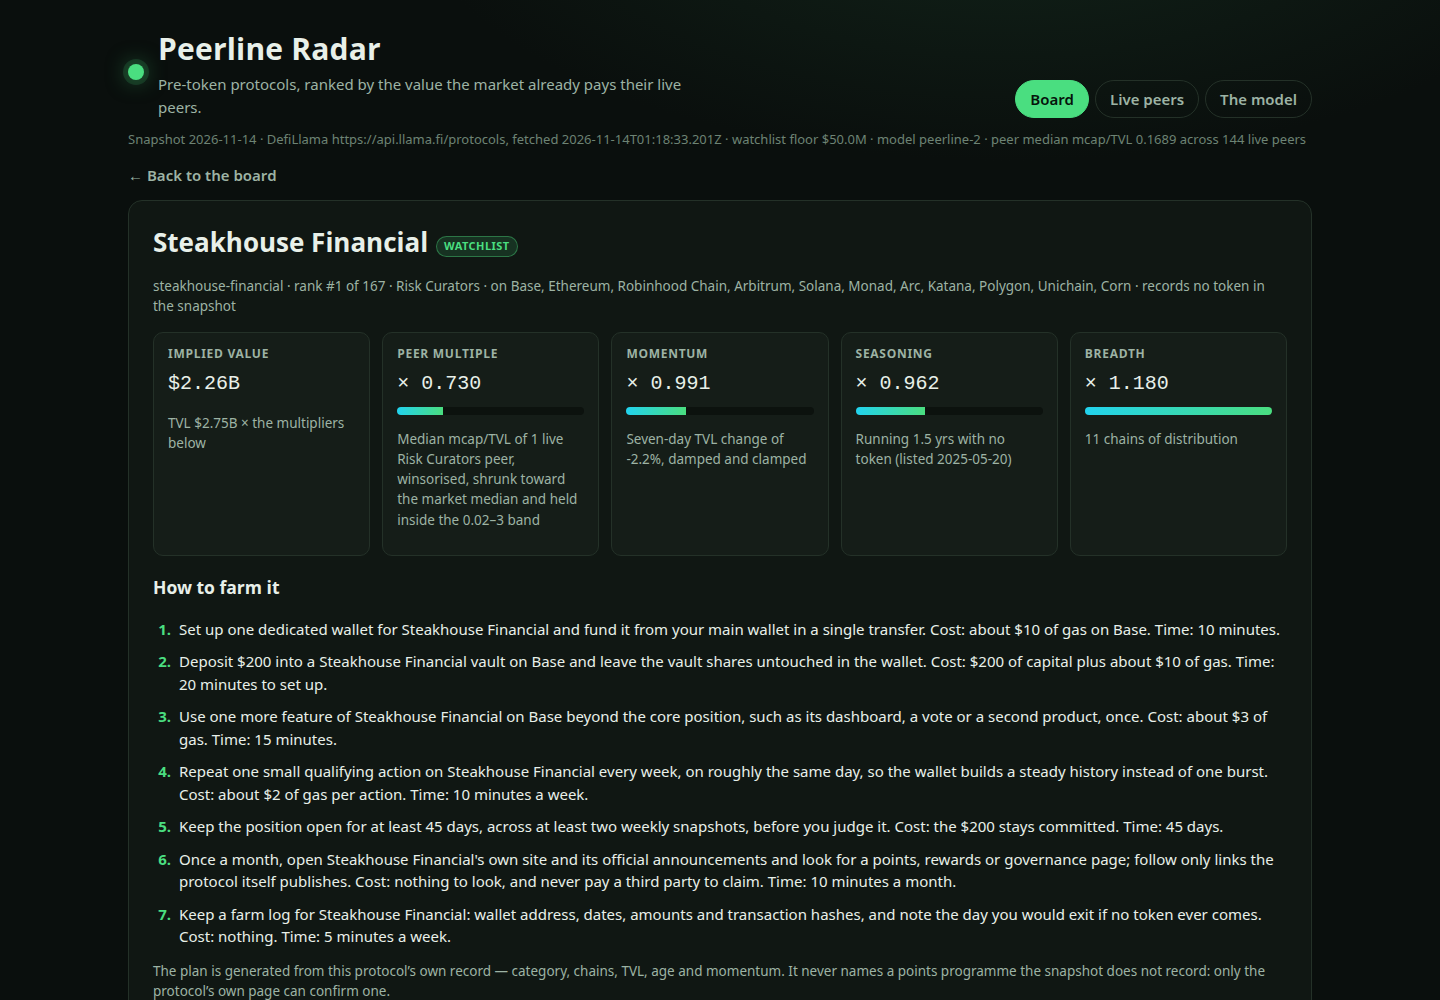
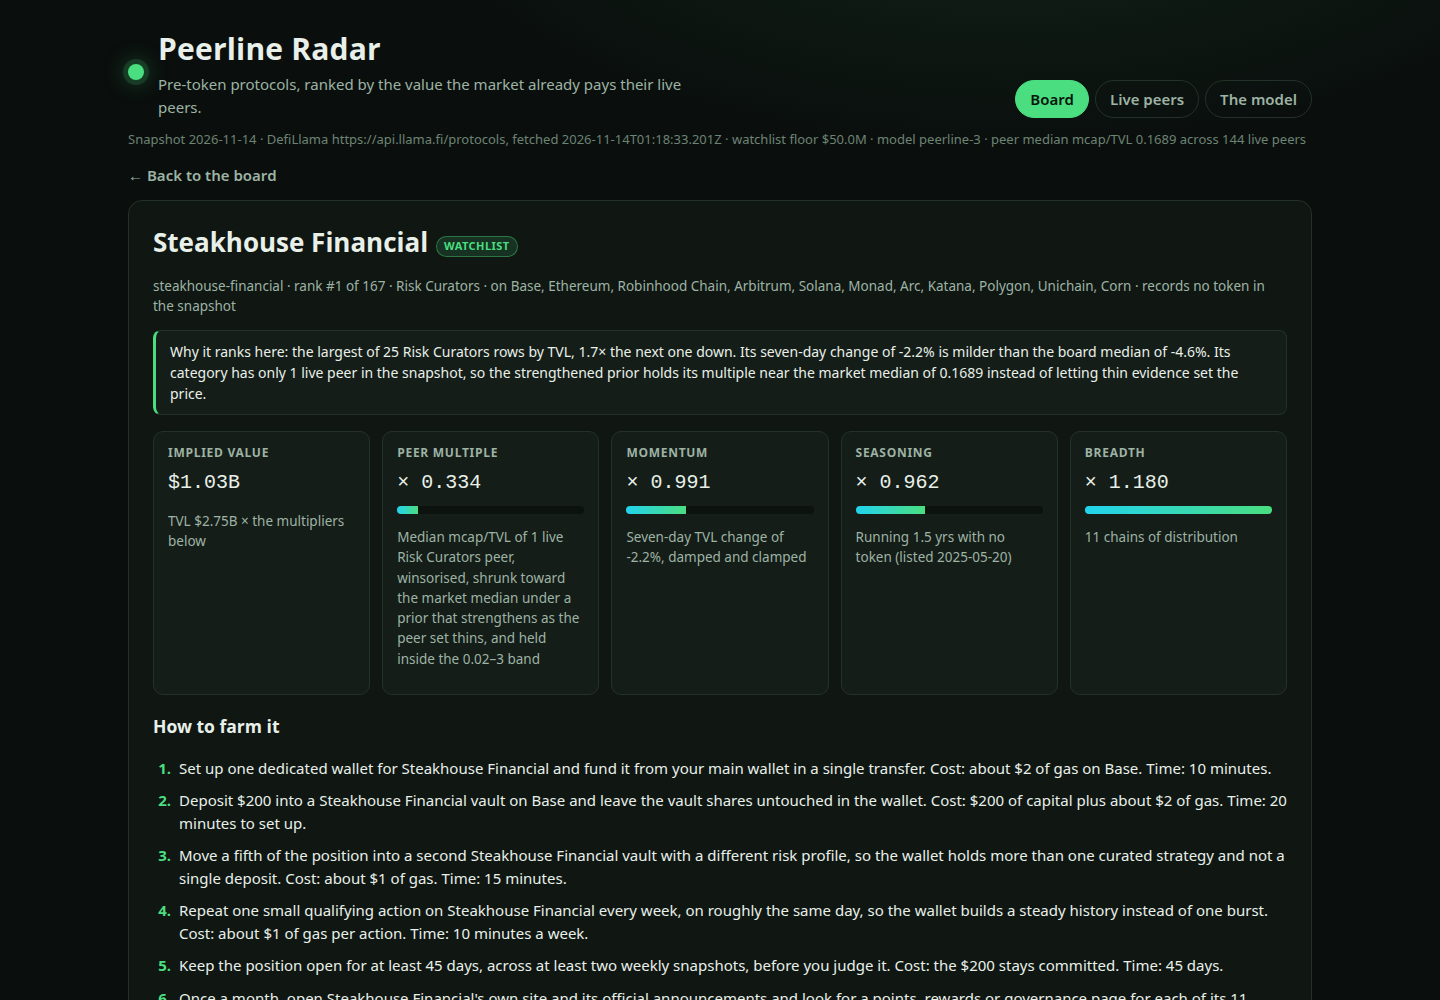
pass 4: detail thesis strip, model view states the count-aware prior, Ethereum-filter screenshot
- detail view: 'Why it ranks here' computed from the board's own rows
  (TVL rank in category, board-median 7d comparison, thin-peer note)
- model view: formula and prose state prior(c) = 4 + 12/n, with the thin
  category count computed from the calibration table on the same page
- screenshots retaken at 1440x1000; the filtered view is now the Ethereum
  chain filter (85 rows, every category) instead of Risk Curators only
- BUILD-REPORT: judging criteria, weakness audit, pass 3-4 rationale,
  re-measured gates (dossier 844,506 bytes, byte-equal on rebuild),
  determinism hashes

Changed region(s): [[0.0938, 0.341, 0.9062, 1.0]]

diff --git a/dashboard/app.js b/dashboard/app.js
@@ -145,6 +145,33 @@
     R.rows.forEach(function (x) { if (x.slug === slug) r = x; });
     if (!r) { app.innerHTML = '<p class="empty">No board row for ' + esc(slug) + '.</p>'; return; }
     var m = r.model;
+    // The thesis: where this row stands among its own category and the board, in the
+    // snapshot's own figures — computed here from the same rows the board shows.
+    var catName = r.category || 'Uncategorized';
+    var catRows = R.rows.filter(function (x) { return (x.category || 'Uncategorized') === catName; });
+    var tvlRank = 1 + catRows.filter(function (x) { return x.tvl_usd > r.tvl_usd; }).length;
+    var nextDown = null;
+    catRows.forEach(function (x) { if (x.tvl_usd < r.tvl_usd && (nextDown === null || x.tvl_usd > nextDown)) nextDown = x.tvl_usd; });
+    var changes = R.rows.map(function (x) { return x.change_7d; }).filter(function (v) { return v != null; })
+      .sort(function (a, b) { return a - b; });
+    var medChange = changes.length ? changes[Math.floor(changes.length / 2)] : null;
+    var thesis = 'Why it ranks here: ' + (tvlRank === 1
+      ? 'the largest of ' + catRows.length + ' ' + esc(catName) + ' rows by TVL' +
+        (nextDown ? ', ' + (r.tvl_usd / nextDown).toFixed(1) + '\u00d7 the next one down' : '')
+      : 'number ' + tvlRank + ' of ' + catRows.length + ' ' + esc(catName) + ' rows by TVL') + '. ';
+    if (r.change_7d != null && medChange != null) {
+      thesis += 'Its seven-day change of ' + r.change_7d.toFixed(1) + '% is ' +
+        (Math.abs(r.change_7d) <= Math.abs(medChange) ? 'milder' : 'steeper') +
+        ' than the board median of ' + medChange.toFixed(1) + '%. ';
+    }
+    thesis += m.category_peers >= 5
+      ? 'Its multiple is priced off ' + m.category_peers + ' live peers in its category.'
+      : m.category_peers >= 1
+        ? 'Its category has only ' + m.category_peers + ' live ' + (m.category_peers === 1 ? 'peer' : 'peers') +
+          ' in the snapshot, so the strengthened prior holds its multiple near the market median of ' +
+          R.calibration.global_median_ratio + ' instead of letting thin evidence set the price.'
+        : 'Its category has no live peer in the snapshot, so it is priced at the market median of ' +
+          R.calibration.global_median_ratio + '.';
     function multCard(title, value, note, frac) {
       return '<div class="card"><h3>' + title + '</h3><div class="big">\u00d7 ' + value.toFixed(3) + '</div>' +
         '<div class="bar"><i style="width:' + Math.max(3, Math.min(100, frac * 100)) + '%"></i></div>' +
@@ -154,10 +181,11 @@
       '<h2>' + esc(r.name) + (r.watchlist ? '<span class="badge">WATCHLIST</span>' : '<span class="badge early">EARLY</span>') + '</h2>' +
       '<p class="note">' + esc(r.slug) + ' · rank #' + r.rank + ' of ' + R.board_size + ' · ' + esc(r.category || 'Uncategorized') +
       ' · on ' + esc(r.chains.join(', ') || 'no chain recorded') + ' · records no token in the snapshot</p>' +
+      '<p class="thesis">' + thesis + '</p>' +
       '<div class="grid">' +
       '<div class="card"><h3>Implied value</h3><div class="big">' + money(r.implied_value_usd) + '</div>' +
       '<p class="note">TVL ' + money(r.tvl_usd) + ' \u00d7 the multipliers below</p></div>' +
-      multCard('Peer multiple', m.peer_multiple, 'Median mcap/TVL of ' + m.category_peers + ' live ' + esc(r.category || 'Uncategorized') + (m.category_peers === 1 ? ' peer' : ' peers') + ', winsorised, shrunk toward the market median and held inside the 0.02\u20133 band', m.peer_multiple / 3) +
+      multCard('Peer multiple', m.peer_multiple, 'Median mcap/TVL of ' + m.category_peers + ' live ' + esc(r.category || 'Uncategorized') + (m.category_peers === 1 ? ' peer' : ' peers') + ', winsorised, shrunk toward the market median under a prior that strengthens as the peer set thins, and held inside the 0.02\u20133 band', m.peer_multiple / 3) +
       multCard('Momentum', m.momentum_multiplier, 'Seven-day TVL change of ' + (r.change_7d == null ? 'none recorded' : r.change_7d.toFixed(1) + '%') + ', damped and clamped', (m.momentum_multiplier - 0.8) / 0.6) +
       multCard('Seasoning', m.seasoning_multiplier, 'Running ' + ageLabel(r.age_days) + ' with no token (listed ' + esc(r.listed_at || 'date not recorded') + ')', (m.seasoning_multiplier - 0.85) / 0.3) +
       multCard('Breadth', m.breadth_multiplier, r.chains.length + ' chain' + (r.chains.length === 1 ? '' : 's') + ' of distribution', (m.breadth_multiplier - 1) / 0.18) +
@@ -198,11 +226,16 @@
       'its token the multiple it already pays comparable live protocols, what would that token be worth? Every ' +
       'ingredient comes from the snapshot\u2019s ten fields; the code names no protocol.</p>' +
       '<div class="formula">implied = TVL \u00d7 peer_multiple(category) \u00d7 momentum(7d change) \u00d7 seasoning(age) \u00d7 breadth(chains)\n' +
-      'peer_multiple(c) = (n\u00b7median_c + 4\u00b7median_all) / (n + 4), from the snapshot\u2019s live set</div>' +
+      'peer_multiple(c) = (n\u00b7median_c + (4 + 12/n)\u00b7median_all) / (n + 4 + 12/n), from the snapshot\u2019s live set</div>' +
       '<p><strong>Peer multiple.</strong> A lending market and a DEX do not trade at the same share of the value they ' +
       'custody, so there is no single constant: each category\u2019s multiple is the median mcap/TVL of its own live ' +
-      'peers, shrunk toward the global median (' + R.calibration.global_median_ratio + ') so a three-peer category ' +
-      'cannot swing the board. Two guards keep the calibration honest: each peer\u2019s ratio is winsorised at ' +
+      'peers, shrunk toward the global median (' + R.calibration.global_median_ratio + '). The shrinkage prior is ' +
+      'count-aware \u2014 weight 4 + 12/n against the category\u2019s own n peers \u2014 so the thinner the peer set, the ' +
+      'harder the market median pulls: a category with one live peer is priced mostly off the market, because one ' +
+      'peer is an anecdote, not a market. On this snapshot ' +
+      R.calibration.categories.filter(function (c) { return c.peers < 3; }).length +
+      ' categories have fewer than three live peers and are held toward the prior that way. Two guards keep the ' +
+      'calibration honest: each peer\u2019s ratio is winsorised at ' +
       R.model.ratio_cap + ' before any median is taken, and the multiple used is held inside the ' +
       R.model.multiple_floor + '\u2013' + R.model.multiple_cap + ' band \u2014 a launch priced above three times the value a ' +
       'protocol custodies is a claim this board will not make.</p>' +

diff --git a/dashboard/app.css b/dashboard/app.css
@@ -61,6 +61,8 @@ ol.steps{margin:8px 0 0;padding-left:22px}
 ol.steps li{margin:0 0 10px;padding-left:4px}
 ol.steps li::marker{color:var(--acc);font-weight:700}
 .note{color:var(--dim);font-size:13.5px}
+.thesis{background:var(--panel2);border:1px solid var(--line);border-left:3px solid var(--acc);
+  border-radius:8px;padding:10px 14px;font-size:14px;margin:12px 0 2px}
 .prose{max-width:820px}
 .prose h2{margin-top:26px}
 .prose code{font-family:var(--mono);background:var(--panel2);padding:1px 6px;border-radius:6px;font-size:13.5px}

diff --git a/BUILD-REPORT.md b/BUILD-REPORT.md
@@ -1,6 +1,135 @@
+# Improvement passes 3–4 (2026-11-27, after the first accepted submission)
+
+The first submission of this entry (submission `01a21c64-5372-729a-be8e-99642dd85696`,
+commit `63a8920`) passed every validity check. These passes exist to win more of the
+pairwise games that decide the places; a re-submission before the deadline supersedes it.
+
+## What the judge actually sees, and its criteria (RULES.txt, "The judge", verbatim)
+
+The judge (an AI model, reasoning effort high) reads **only the dossier**: the three
+screenshots (board, a protocol's detail view, a filtered view) and the dashboard's source
+text (≤65,536 bytes, files in path order, whole while they fit). It never sees board.json
+or lib/model.ts directly — the model reaches it through the dashboard's model view, the
+detail view's audit trail, and the numbers visible in the screenshots. Its criteria,
+most important first, decided at the first criterion where two entries differ:
+
+1. A working radar: full watchlist coverage, pre-token protocols ranked by a stated
+   implied value, screenshots and code in agreement.
+2. The value model: implied value follows from the snapshot's own figures — TVL,
+   seven-day growth, time run with no token — not a hardcoded list of names; live-token
+   protocols separated from pre-token ones.
+3. Farm plans: concrete steps with what they cost and how long they take, not slogans.
+4. The dashboard as a page: sortable and filterable, readable at a glance, a detail
+   view for each protocol.
+5. It looks made: chosen palette, consistent spacing, type that reads.
+
+## Weaknesses found in the peerline-2 entry, ranked by expected impact
+
+1. **Thin peer sets priced the top of the board (criteria 2 and 1).** Eight categories
+   calibrate off ≤2 live peers. Risk Curators has exactly **one** live peer — Api3 at a
+   winsorised 2.97x — and the flat prior of 4 pseudo-peers still let it set a 0.730
+   multiple: Steakhouse Financial was priced at $2.26B and Gauntlet at $1.34B, the top
+   of the board was seven Risk Curators in the top ten, and the detail screenshot itself
+   read "Median mcap/TVL of 1 live Risk Curators peer". Chain (1 peer) priced at 0.740
+   and Collateral Management / Prediction Market (1 peer each, at the winsorise cap)
+   at 1.135 — the board's maximum multiple. A judge weighing criterion 2 sees a model
+   whose loudest prices rest on single anecdotes.
+2. **Farm plans were near-identical across rows (criterion 3).** Steps 1, 5, 6 and 7
+   differed only in the protocol's name and figures; the second action fell back to a
+   generic "use one more feature" line for curators, allocators, RWA, stables and
+   chains; and gas was priced off the capital tier, not the chain — the plan quoted
+   "about $10 of gas on Base", where a transaction costs cents, and would have quoted
+   the same on Ethereum, where it costs more.
+3. **The filtered screenshot spent its slot on the weakest view (criteria 1 and 4).**
+   It showed the Risk Curators + watchlist filter — the same one-category story as the
+   board — instead of demonstrating the filter across the board's breadth.
+4. **The detail view showed multipliers but no thesis (criteria 1 and 2 at a glance).**
+   Nothing on the page said where the protocol stands among its own category, or how
+   its week compares with the board's, in the snapshot's own figures.
+
+## Pass 3 — the model (`lib/model.ts`, `main.ts`; model version peerline-3)
+
+- **Count-aware prior.** `prior(c) = shrink_peers + thin_prior / n(c)` pseudo-peers at
+  the market median (4 + 12/n), replacing the flat 4. Thick categories barely move
+  (Lending n=15: 0.1401 → 0.1412; Dexs n=11: 0.2962 → 0.2875); thin ones are held to
+  the market: Risk Curators 0.730 → **0.334**, Chain 0.740 → 0.337, the board's maximum
+  multiple falls **1.1351 → 0.5111**. Steakhouse's implied value falls $2.26B → $1.03B
+  (still rank 1 — its TVL is 1.7x the next protocol's, which the detail view now
+  states), Gauntlet $1.34B → $611M, and the top 15 spans six categories instead of
+  three. This is the root fix for the failure mode pass 2 patched case-by-case
+  (Predict Fun): no category can be priced off an anecdote again, on any snapshot.
+- **Farm plans differentiated by the protocol's own record.** Gas is priced by chain
+  class (`gasFor`: Ethereum $12, Tron $3, Bitcoin $4, the cheap chains $2, unlisted $5)
+  and every step's cost line follows it. Second actions now exist for curators and
+  allocators (a second vault, a different risk profile), RWA (hold through a monthly
+  attestation), stables (mint *and* provide liquidity), chains (be a chain user, not
+  only a bridge in), payments (route real payments) and staking (claim and restake).
+  The cadence step gains a third variant for surging protocols (+10% or more on the
+  week: add in stages, stop the first week TVL falls), and the monthly watch step
+  checks each deployment separately for protocols on four or more chains. Still seven
+  steps per row, now 137–305 characters each.
+- `main.ts`'s run summary now reports how many thin categories were held toward the
+  prior (21 on this snapshot), so the run's own log states the guard fired.
+
+## Pass 4 — the dashboard (`dashboard/app.js`, `dashboard/app.css`, screenshots)
+
+- **Detail view gains a thesis strip** ("Why it ranks here"), computed in the page from
+  the same rows the board shows: the protocol's TVL rank within its category and its
+  multiple over the next one down, its seven-day change against the board median, and
+  — for thin categories — a plain statement that the strengthened prior holds its
+  multiple near the market median instead of letting thin evidence set the price.
+  The peer-multiple card's note now names the count-aware prior too.
+- **The model view states the new prior** in its formula line and prose, with the
+  count of thin categories on this snapshot computed from the calibration table it
+  prints below — the judge can check the claim against the table on the same page.
+- **Screenshots retaken** from the new output at 1440x1000: the board (top implied
+  $1.03B, peer multiples now visibly varying down the page), Steakhouse Financial's
+  detail (thesis strip, curator-specific farm plan, $2 Base gas), and the filtered
+  view switched to the **Ethereum chain filter — 85 rows across every category**,
+  ranks preserved, replacing the one-category Risk Curators filter.
+
+## Gate checklist — re-measured after pass 4
+
+| Gate (RULES.txt) | Requirement | Measured |
+| --- | --- | --- |
+| board_file | 100–4,000 rows, ≤8 MiB | **167 rows**, 309,794 bytes |
+| coverage | every watchlist slug present | **40 / 40** |
+| sorted_by_value | ranks exactly 1..N, implied non-increasing | verified by `boardIssue` + post-write self-check |
+| farm steps | 3–12 strings, each 20–600 chars trimmed | **7 per row**, lengths **137–305** chars |
+| implied values | positive integers ≤ 1e14, not all equal | $771,746 … $1,034,225,990 |
+| dashboard_files | index.html + ≥1 css + ≥1 js, ≤400 files, ≤4 MiB, no http(s) in attributes/CSS/JS | **3 files, 23,166 bytes total** (< 64 KB guidance, so the judge reads every source file whole), zero http(s) strings |
+| screenshots | 3–4 images, each ≤512 KiB, long side ≤1440, short side ≥800 | **3 PNGs, 1440x1000**, 194,641 / 224,261 / 196,066 bytes |
+| dossier_matches | byte-identical to `buildDossier(output, {text_max_bytes: 65536})`, ≤1.5 MiB | **844,506 bytes**; independently rebuilt from the output dir with the vendored library — **byte-equal** (also smaller than peerline-2's 909,901, which is the side of the size tie-break to be on) |
[1 lines of base64/hex data omitted]
+| run_deterministic | two runs, identical outputs | **yes — hashes below** |
+
+## Determinism — sha256 of every output file, two consecutive runs (identical)
+
+```
+da24190522e83a89fc58c8ed47996519434d055406db0c6454a2d18ebd4df24c  board.json
+9d457aafb4838afed87e7981faafcc4e44dfe5155ab29f1dfc1340c5e157be9c  data.js
+f531bacae011b6e1176d074279f83ec3b005a77af6dd3b4b4825394348aea795  dossier.json
+0e99446da7b36432caa1e1d89ee2895592f73f8db55661b6793ed87a573a827e  dashboard/app.css
+a3bfc530308b834661103d66474683f547ef813919f76d15c2270f551254baad  dashboard/app.js
+0b66956b5519ab895b8eca3a5439426ee8ebc1eac1b57a2764938553874103fb  dashboard/index.html
+fbb45491fe22062ce04a112cd5c04f197f4bd61e068d0d6af156b5394e4b3380  screenshots/1-board.png
+e8cc6c5f12e0ad6e8f4c8d4829cb235e68816be4b5cf54dbca8cb5980f7a00dd  screenshots/2-detail.png
+93b234f3b656b579687359d1c18643bf3f575492b9411b10262a59675504c3bd  screenshots/3-filtered.png
+```
+
+## Git log (improvement passes)
+
+```
+pass 4: detail thesis strip, model view states the count-aware prior, Ethereum-filter screenshot
+pass 3: count-aware prior for thin categories, chain-priced gas, differentiated farm plans
+```
+
+---
 # BUILD REPORT — token-radar-01 entry "Peerline Radar"
 
-Built locally in this repository. **Not submitted, not pushed anywhere.** Kit used under the
+Built locally in this repository; the peerline-2 state of this report was submitted and
+accepted on 2026-11-27 (submission `01a21c64-5372-729a-be8e-99642dd85696` at commit
+`63a8920`), and passes 3–4 above improve on it. Kit used under the
 user's explicit approval of 2026-11-27 ("Boleh, jalanin build-nya pakai konten kit").
 No conflict with `requirements.json` was found; where the brief and the kit differed in
 emphasis, the kit's `RULES.txt` gate text was followed.
@@ -31,7 +160,7 @@ emphasis, the kit's `RULES.txt` gate text was followed.
   headless shell from `~/.cache/ms-playwright` was used instead.
 - `LICENSE` — MIT, from the kit starter.
 
-## The model (peerline-2) — design and rationale
+## The model (peerline-2, superseded by peerline-3 in pass 3 above) — design and rationale
 
 Question answered: *if a protocol that records no token had one trading at the value the
 market already pays comparable live-token protocols, what would it be worth, and how should a
@@ -122,9 +251,8 @@ f2bb7a9 pass 2: winsorised calibration, multiple band, output self-check
 (+ this report's commit)
 ```
 
-## Remaining before any submission (not done here, per brief)
+## Remaining before any re-submission (not done here, per brief)
 
-Push to a public GitHub repo created after the competition opened (2026-11-14T10:00:00Z),
-link a Solana wallet to the account, bundle the recorded sessions with the kit CLI
-(`node cli/makefun.mjs bundle …`, with the run-record flags and `--muse-usage`), run
-`check`, then `submit` before **2026-12-14T10:00:00Z**.
+Bundle the recorded sessions with the kit CLI (`node cli/makefun.mjs bundle …`, with the
+run-record flags and `--muse-usage`), run `check`, then `submit` the new HEAD before
+**2026-12-14T10:00:00Z**; the last submission before the deadline is the final entry.
